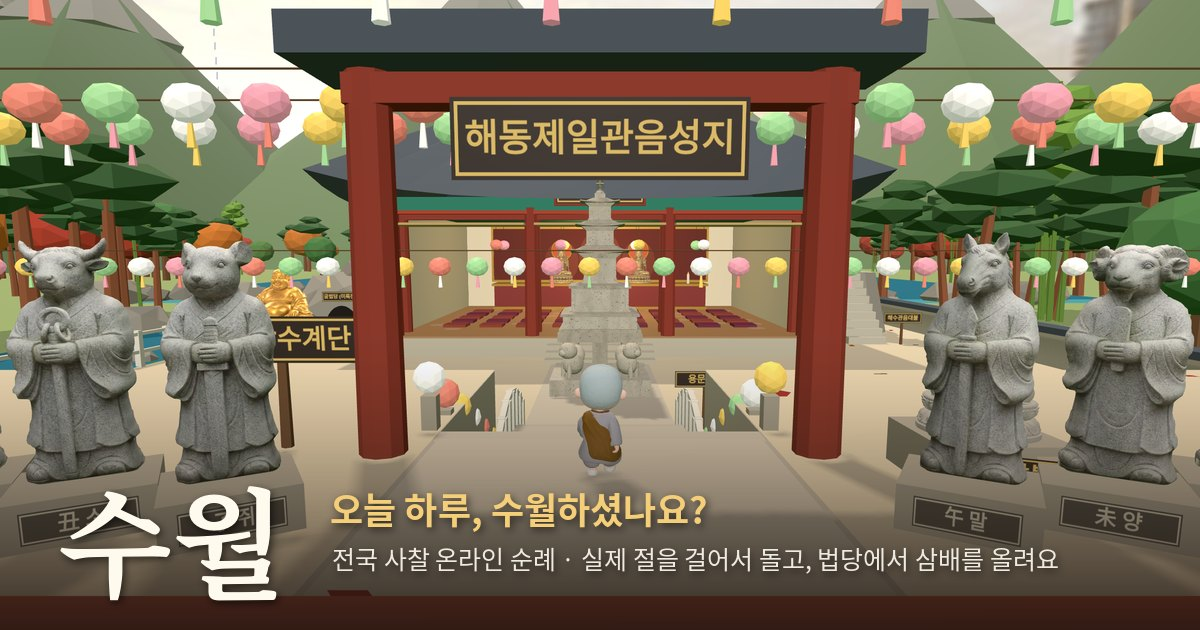
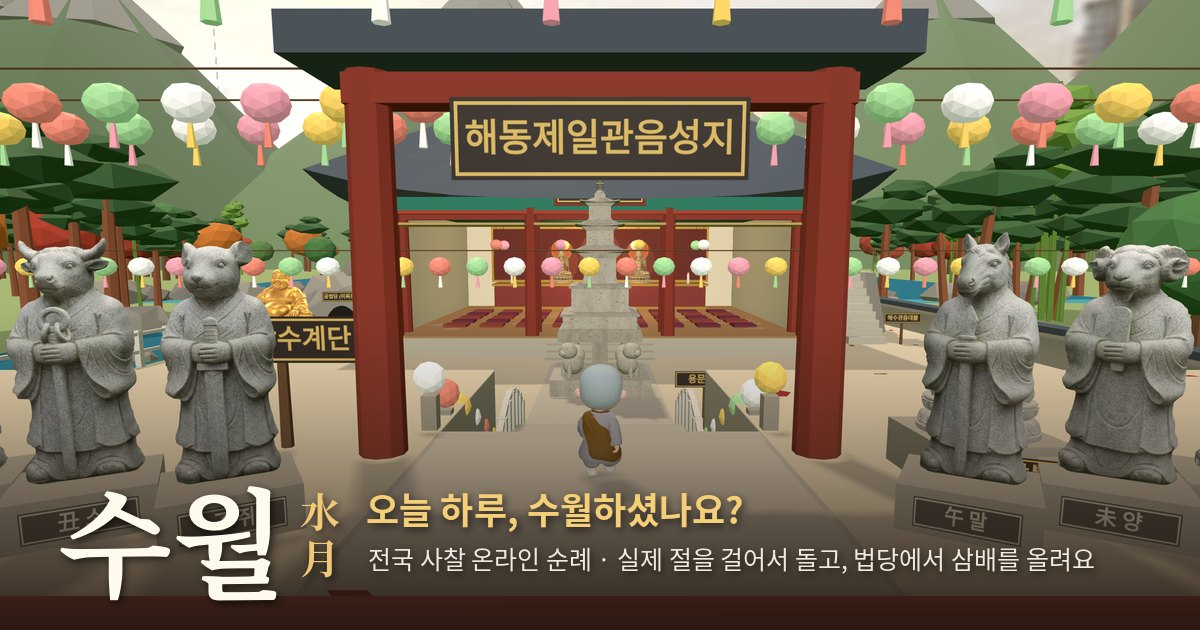
수월에 한자 水月 함께: 로딩 화면·사이트 제목·링크 미리보기(제목·대표 사진)
Claude-Session: https://claude.ai/code/session_01JKBXucsk68qMwYPAyuSi5U

Changed region(s): [[0.2467, 0.754, 0.925, 0.9349]]

diff --git a/index.html b/index.html
@@ -3,21 +3,21 @@
 <head>
 <meta charset="utf-8">
 <meta name="viewport" content="width=device-width,initial-scale=1,maximum-scale=1,user-scalable=no,viewport-fit=cover">
-<title>수월 · 전국 사찰 온라인 순례</title>
+<title>수월(水月) · 전국 사찰 온라인 순례</title>
 <meta name="description" content="오늘 하루, 수월하셨나요? 조계사부터 휴휴암까지 실제 절을 걸어서 돌고, 법당에서 삼배를 올려요">
 <meta property="og:type" content="website">
-<meta property="og:site_name" content="수월">
-<meta property="og:title" content="수월 · 전국 사찰 온라인 순례">
+<meta property="og:site_name" content="수월(水月)">
+<meta property="og:title" content="수월(水月) · 전국 사찰 온라인 순례">
 <meta property="og:description" content="오늘 하루, 수월하셨나요? 조계사부터 휴휴암까지 실제 절을 걸어서 돌고, 법당에서 삼배를 올려요">
 <meta property="og:url" content="https://temple-meta.vercel.app/">
-<meta property="og:image" content="https://temple-meta.vercel.app/assets/og-suwol.jpg">
+<meta property="og:image" content="https://temple-meta.vercel.app/assets/og-suwol.jpg?v=2">
 <meta property="og:image:width" content="1200">
 <meta property="og:image:height" content="630">
 <meta property="og:locale" content="ko_KR">
 <meta name="twitter:card" content="summary_large_image">
-<meta name="twitter:title" content="수월 · 전국 사찰 온라인 순례">
+<meta name="twitter:title" content="수월(水月) · 전국 사찰 온라인 순례">
 <meta name="twitter:description" content="오늘 하루, 수월하셨나요? 조계사부터 휴휴암까지 실제 절을 걸어서 돌고, 법당에서 삼배를 올려요">
-<meta name="twitter:image" content="https://temple-meta.vercel.app/assets/og-suwol.jpg">
+<meta name="twitter:image" content="https://temple-meta.vercel.app/assets/og-suwol.jpg?v=2">
 <meta name="apple-mobile-web-app-title" content="수월">
 <meta name="application-name" content="수월">
 <meta name="theme-color" content="#9b3b2b">
@@ -67,6 +67,7 @@
   #loading .lotus{font-size:46px;animation:breathe 2.4s ease-in-out infinite}
   #loading p{margin:14px 0 0;font-size:14px;color:#6d5f4b;text-align:center;line-height:1.6}
   #loading .brand{margin-top:10px;font:700 30px/1.2 "Noto Serif KR","Nanum Myeongjo",serif;letter-spacing:.14em;color:#4a3626;padding-left:.14em}
+  #loading .brand .hanja{display:block;margin-top:2px;font-size:15px;font-weight:600;letter-spacing:.5em;padding-left:.5em;color:#a07d4a}
   #loading .slogan{margin-top:6px;font-style:normal;font-size:15px;color:#8a6a3f;letter-spacing:.02em}
   @keyframes breathe{50%{transform:scale(1.12)}}
   #regionModal{position:fixed;inset:0;background:rgba(30,25,15,.45);display:none;align-items:center;justify-content:center;z-index:31;padding:14px}
@@ -181,11 +182,11 @@
 <body>
 <canvas id="c" tabindex="0"></canvas>
 
-<div id="loading"><div class="lotus">🪷</div><b class="brand">수월</b><i class="slogan">오늘 하루, 수월하셨나요?</i><p id="loadMsg">사찰로 가는 중…<br>브이월드에서 실제 법당 위치를 불러오고 있어요</p></div>
+<div id="loading"><div class="lotus">🪷</div><b class="brand">수월<span class="hanja">水月</span></b><i class="slogan">오늘 하루, 수월하셨나요?</i><p id="loadMsg">사찰로 가는 중…<br>브이월드에서 실제 법당 위치를 불러오고 있어요</p></div>
 
 <div id="title" class="card">
   <h1>사찰 순례 <small>불러오는 중</small></h1>
-  <p>수월 · 법당 안에 들어가 부처님께 삼배를 올리는 전국 사찰 온라인 순례</p>
+  <p>수월(水月) · 법당 안에 들어가 부처님께 삼배를 올리는 전국 사찰 온라인 순례</p>
   <div class="row"><span id="badge" class="badge">불러오는 중…</span><button id="dbgBtn" title="디버그 정보">🛠 상태</button></div>
 </div>
 <canvas id="minimap" class="card" width="264" height="264"></canvas>
@@ -251,6 +252,6 @@
   </div>
 </div>
 
-<script type="module" src="./app.js?v=73"></script>
+<script type="module" src="./app.js?v=74"></script>
 </body>
 </html>
